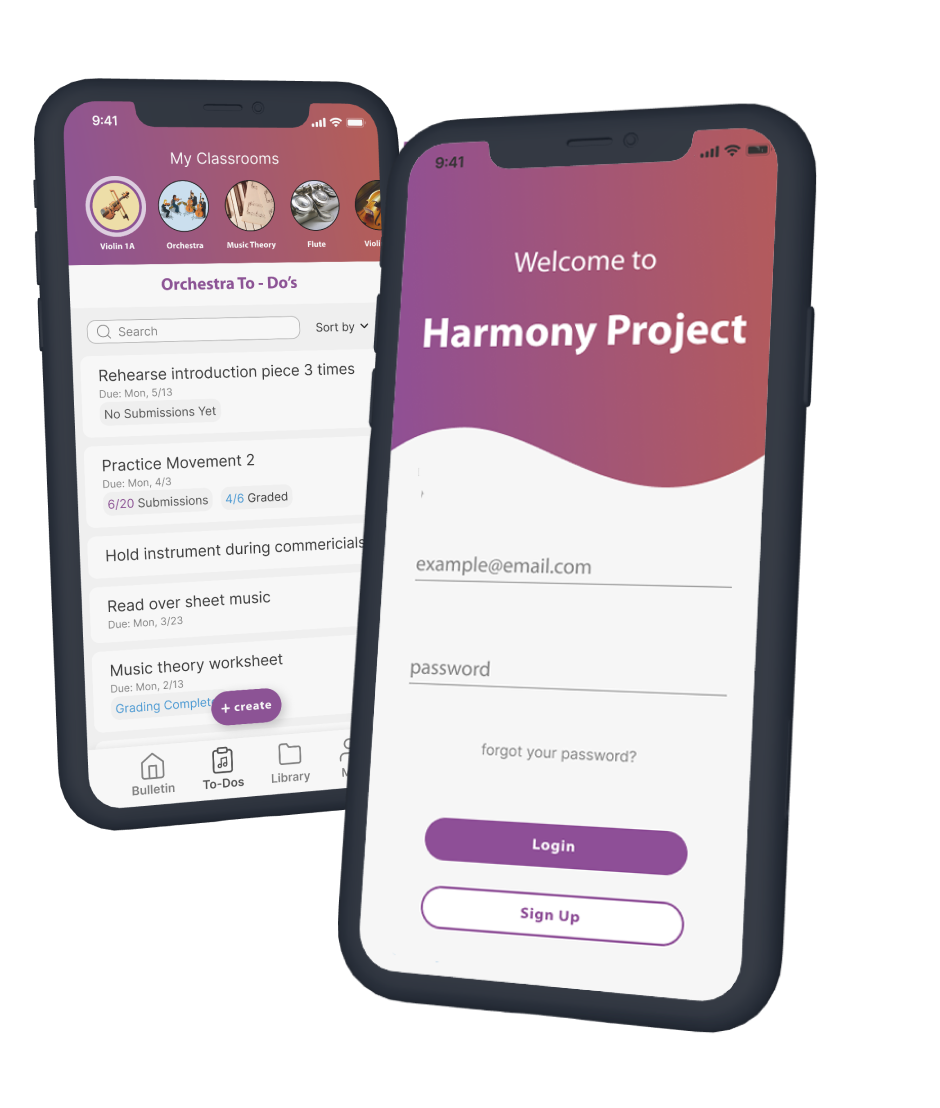
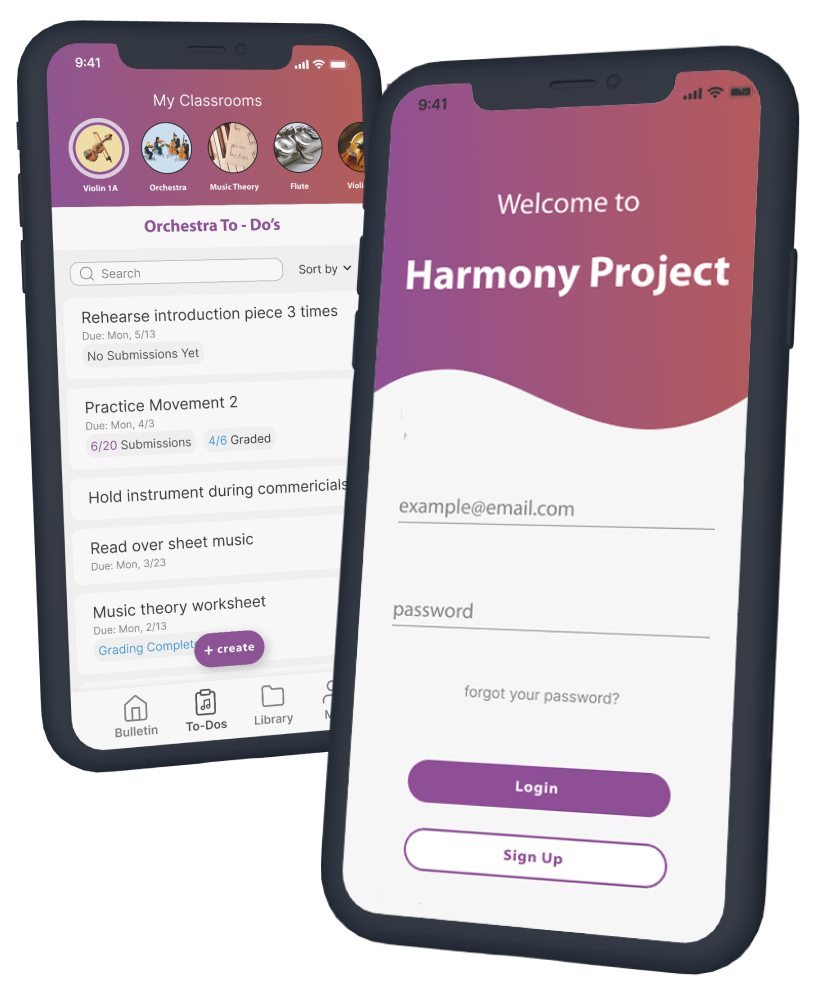
Add PTV Case Study and update project thumbnails

diff --git a/src/app/components/ProjectInfo.js b/src/app/components/ProjectInfo.js
@@ -17,9 +17,9 @@ import SectionUnorderedList from './SectionUnorderedList';
 import SectionTable from './SectionTable';
 import PageHeader from './PageHeader';
 
+import ptvMobileApp from '../assets/images/projects/PTV_Thumbnail.png';
 import f2pWebapp from '../assets/images/projects/farm2people/F2P_Thumbnail.png';
-import hpLogo from '../assets/images/projects/HarmonyProject/harmony-project.png';
-import hpMobileApp from '../assets/images/projects/HarmonyProject/HP_Thumbnail.png';
+import hpMobileApp from '../assets/images/projects/HP_Thumbnail.png';
 
 import ptv from '../markdown/ptv.md';
 import harmonyProject from '../markdown/harmony_project.md';
@@ -28,56 +28,17 @@ import farm2people from '../markdown/farm2people.md';
 /* eslint-disable */
 const projects = {
   'ptv': {
-    title: 'Program for Torture Victims',
+    title: '',
     render: () => (
       <>
-        <div className="mb-3">
-          Program for Torture Victims helps support refugees escaping violence and human rights abuse.
-        </div>
-        <div className="ptv-text">
-          View Github Repositories
-        </div>
-        <Button className="blue" size="md" href="https://github.com/lablueprint/ptv-mobile-app">
-          Mobile App
-        </Button>
-        <Button className="blue" size="md" href="https://github.com/lablueprint/ptv-web-console">
-          Web Console
-        </Button>
+        <img src={ptvMobileApp} width="75%"></img>
       </>
-    ),
-    body: (
-      <>
-        <SectionHeading>
-          Background
-        </SectionHeading>
-        <SectionParagraph>
-          Roughly 70,000–90,000 individuals seek asylum <a
-          href="https://www.dhs.gov/sites/default/files/publications/Refugees_Asylees_2017.pdf">every year.</a> These
-          asylum seekers range from individuals wanting to find a better life, avoiding political prosecution, or
-          escaping torture and persecution for their beliefs. Many of these asylum seekers arrive to the United States
-          with nothing else besides what they can carry in their suitcases and have no connections to resources when
-          they first arrive.
-        </SectionParagraph>
-        <SectionHeading>
-          Solution
-        </SectionHeading>
-        <SectionParagraph>
-          <a href="https://ptvla.org">Program for Torture Victims (PTV)</a> aims to rebuild the lives of survivors of
-          torture and persecution from over 70 countries. PTV does this by connecting survivors to resources and
-          rehabilitation to help restore their health and dignity. To better serve and increase awareness of available
-          resources for PTV’s service recipients, our project will develop a mobile application that will direct
-          survivors to resources specific to their needs and provide an online community.
-        </SectionParagraph>
-      </>
-    ),
+    )
   },
   'harmony-project': {
     title: '',
     render: () => (
-      <div style={{display: 'flex', flexDirection: 'row', justifyContent: 'space-around', alignItems: 'center'}}>
-        <img src={hpLogo} style={{width: '30%', height: '30%'}}></img>
-        <img src={hpMobileApp} style={{width: '50%'}}></img>
-      </div>
+      <img src={hpMobileApp} width="75%"></img>
     )
   },
   'farm2people': {

diff --git a/src/app/assets/stylesheets/main.scss b/src/app/assets/stylesheets/main.scss
@@ -72,6 +72,27 @@ h4 {
       }
     }
 
+    &.white {
+      border: 1px solid $bp-blue;
+      background-color: $white;
+      color: $bp-blue;
+
+      &:hover {
+        background-color: $white;
+        color: $bp-blue;
+      }
+
+      &:focus {
+        background-color: $white;
+        color: $bp-blue;
+      }
+
+      &:active {
+        background-color: $white !important;
+        color: $bp-blue !important;
+      }
+    }
+
     &.outline-white {
       border: 1px solid $white; 
       background-color: $transparent;
@@ -93,24 +114,45 @@ h4 {
       }
     }
 
-    &.white {
-      border: 1px solid $bp-blue;
-      background-color: $white;
-      color: $bp-blue;
+    &.pink {
+      border: 1px solid $pink;
+      background-color: $pink;
+      color: $white;
 
       &:hover {
-        background-color: $white;
-        color: $bp-blue;
+        background-color: $pink;
+        color: $white;
       }
 
       &:focus {
-        background-color: $white;
-        color: $bp-blue;
+        background-color: $pink;
+        color: $white;
       }
 
       &:active {
-        background-color: $white !important;
-        color: $bp-blue !important;
+        background-color: $pink !important;
+        color: $white !important;
+      }
+    }
+
+    &.pink-outline {
+      border: 1px solid $pink;
+      background-color: $transparent;
+      color: $pink;
+
+      &:hover {
+        background-color: $transparent;
+        color: $pink;
+      }
+
+      &:focus {
+        background-color: $transparent;
+        color: $pink;
+      }
+
+      &:active {
+        background-color: $transparent !important;
+        color: $pink !important;
       }
     }
 

diff --git a/src/app/assets/stylesheets/components/PageHeader.scss b/src/app/assets/stylesheets/components/PageHeader.scss
@@ -34,7 +34,7 @@
     .content-container {
       display: flex; 
       flex-direction: row; 
-      justify-content: 'space-between'; 
+      justify-content: center; 
 
       @media screen and (max-width: 768px) {
         flex-direction: column;
@@ -145,6 +145,11 @@
 
 
       &.ptv {
+
+        .body {
+            display: flex; 
+            justify-content: center; 
+        }
         
         .ptv-text {
           margin-top: 50px;
@@ -159,13 +164,12 @@
         }
       }
 
-      /* &.harmony-project {
-        background-image: linear-gradient(#F5F5F5 57%, white 50%);
+      &.harmony-project {
+        .body {
+          display: flex; 
+          justify-content: center; 
+        }
       }
-
-      &.farm2people {
-        background-image: linear-gradient(#F5F5F5 57%, white 50%);
-      } */
     }
 
     .content {

diff --git a/src/app/pages/ProjectPage.js b/src/app/pages/ProjectPage.js
@@ -5,7 +5,7 @@ import PageHeader from '../components/PageHeader';
 import ProjectCard from '../components/ProjectCard';
 import SectionContainer from '../components/SectionContainer';
 
-import ptv from '../assets/images/projects/PTV_Thumbnail.jpeg';
+import ptv from '../assets/images/projects/PTV_Thumbnail.png';
 import harmonyProject from '../assets/images/projects/HP_Thumbnail.png';
 import farm2people from '../assets/images/projects/F2P_Thumbnail.png';
 

diff --git a/src/app/components/OurProjects.js b/src/app/components/OurProjects.js
@@ -7,7 +7,7 @@ import SectionHeading from './SectionHeading';
 import SectionSubtitle from './SectionSubtitle';
 import ProjectCard from './ProjectCard';
 
-import ptv from '../assets/images/projects/PTV_Thumbnail.jpeg';
+import ptv from '../assets/images/projects/PTV_Thumbnail.png';
 import harmonyProject from '../assets/images/projects/HP_Thumbnail.png';
 import farm2people from '../assets/images/projects/F2P_Thumbnail.png';
 

diff --git a/src/app/assets/stylesheets/components/ProjectInfo.scss b/src/app/assets/stylesheets/components/ProjectInfo.scss
@@ -31,6 +31,14 @@
     .btn {
         @extend .raised-button;
         margin-right: 20px;
+
+        &.blue {
+            margin-bottom: 20px;
+        }
+
+        &.white {
+            margin-bottom: 20px;
+        }
     }
     
     .flex-row {

diff --git a/src/app/markdown/ptv.md b/src/app/markdown/ptv.md
@@ -1,7 +1,138 @@
+<div class="title">
+Program for Torture Victims
+</div>
+
+[Program for Torture Victims (PTV)](https://ptvla.org/) aims to rebuild the lives of survivors of torture and persecution from over 70 countries. PTV does this by connecting survivors to resources and rehabilitation to help restore their health and dignity. 
+
+Blueprint partnered with PTV to build a mobile application that caters towards asylum-seekers and refugees, assisting them in integrating with their host society. We collaborated on Figma to create prototypes and wireframes of a mobile application to assist asylum-seekers, as well as a web console for PTV staff and administrators to use.
+
+Github Repositories: 
+
+<Button className="blue" size="md" href="https://github.com/lablueprint/ptv-mobile-app">
+    Mobile App
+</Button>
+
+<Button className="white" size="md" href="https://github.com/lablueprint/ptv-web-console">
+    Web Console
+</Button>
+
+Figma Prototypes: 
+
+<Button className="pink" size="md" href="https://www.figma.com/proto/oHCzpYSIl8qFp8lTkALOuK/PTV?node-id=577%3A4418&scaling=scale-down&viewport=-69%2C-297%2C0.07977807521820068">
+    Mobile App
+</Button>
+
+
+<Button className="pink-outline" size="md" href="https://www.figma.com/proto/oHCzpYSIl8qFp8lTkALOuK/PTV?node-id=3637%3A0&scaling=scale-down-width&viewport=707%2C495%2C0.039171002805233">
+    Web Console
+</Button>
+
+---
+<div id="duration-table">
+
+| Duration | Tools & Tech |
+| - | - |
+| January 2020 - February 2021 | React Native, React, Firebase, Material Design; Figma
+ |
+
+</div>
+
+| Team Members | |
+| - | - |
+| **_Project Leads_** | Vincent Cheung (January 2020 - June 2020), Bill Liu (June 2020 - February 2021) |
+| **_Designers_** | Vivian Nguyen, Yinyin Wen |
+| **_Developers_** | Derek Chu, Bill Liu, Bianca Villamor, Ryan Tran, Helen Wang, Michael Shi, Solaine Zhao, Anan Wang, Ray Huang, Andrew Zeff |
+
 # Background 
+California is the asylum capital of the Americas. Every year, more than 75,000 human rights activists, war survivors, ethnic and religious minorities, gang/cartel victims, LGBT survivors, and other displaced immigrants flee violence in their home countries to resettle in California. These refugees uproot their lives and disrupt community and family ties to seek freedom and safety. Many arrive penniless having spent their life savings on a perilous journey to get to the US. Many are broken mentally and physically but aren’t eligible for health coverage or other benefits. Many refugees struggle with a new language, the challenges of a new country, and the bureaucracy of its systems.
 
-Roughly 70,000–90,000 individuals seek asylum [every year](https://www.dhs.gov/sites/default/files/publications/Refugees_Asylees_2017.pdf). These asylum seekers range from individuals wanting to find a better life, avoiding political prosecution, or escaping torture and persecution for their beliefs. Many of these asylum seekers arrive to the United States with nothing else besides what they can carry in their suitcases and have no connections to resources when they first arrive.
+Although there are several applications such as the [WIN app from Our Children LA](https://www.ourchildrenla.org/win-app/) and [Immigrant Guide](https://immigrantguide.org/), we found that they were difficult to navigate design-wise. Therefore, when designing PTV mobile application, we took into account accessibility and contrast levels, especially as our audience would come from a wide spectrum of demographics.
 
-# Solution 
+# Goal 
+With technology becoming the bridge between humanity and social services, we collaborated with the nonprofit Program for Torture Victims to design and develop a mobile application that would help refugees and asylum-seekers find resources that would help them navigate a country they are still getting used to. We also have a goal to create a backend web console so that resources and features can be updated consistently throughout the years, or long-term.
 
-[Program for Torture Victims (PTV)](https://ptvla.org/) aims to rebuild the lives of survivors of torture and persecution from over 70 countries. PTV does this by connecting survivors to resources and rehabilitation to help restore their health and dignity. To better serve and increase awareness of available resources for PTV’s service recipients, our project will develop a mobile application that will direct survivors to resources specific to their needs and provide an online community.
+*“How can we create an accessible, virtual haven for asylum-seekers and refugees to easily find resources in integrating themselves in their host community, as well as communicate with others in similar situations?”*
+
+# Understand
+
+## Communication with PTV
+
+Throughout the duration of the project, our project lead constantly communicated with PTV to see which features they wanted to be included in the mobile application and web console, informing the team of changes and additions.
+
+## Insights
+- PTV wanted to see:
+    - An Android/iOS mobile app with accompanying web console.
+- The mobile app is the main product. The app centralizes three components: 
+    1. A resource listings
+    2. A communication channel via a forum
+    3. An event board
+
+The app will be used primarily by the clients of PTV in order to find resources, create posts on the forum, comment on posts on the forum, and see upcoming events.
+
+The web console will be used exclusively by PTV staff and volunteers and will be available at a web URL. The web console contains all the features of the mobile app, but because it is used by PTV staff and volunteers, it gives greater control over the app. Resources can be created, updated and deleted; forum posts can be approved; the event board can be updated.
+
+# Literature Reviews
+We conducted a literature review in lieu of first-hand user interviews with PTV's user base in order to understand the context in which refugees arrive into their host communities. References include scholarly articles on best practices, ethnographic studies, and interviews with refugees.
+
+These findings have been synthesized to develop a persona representing PTV's user base (refugees).
+
+Three key issues in designing technology for refugees:
+1. Access to services (health, education, employment)
+    - Barriers to healthcare include:
+        - Cost & transportation
+    - Barriers to education include:
+        - Gender
+        - Child labor
+        - Language
+    - Barriers to employment include:
+        - Government restrictions (ie. to blue collar jobs)
+        - Language
+        - Verifying qualifications
+        - Limited legal aid
+2. Integration into host communities
+3. Journeying to safety
+    - As refugees move across various countries, they rely on technology to communicate with their families
+    - Barriers include insufficient telecom infrastructure
+
+# Ideation
+This application’s features compare to the WIN app and Immigrant Guide, however, it would also include a forum where users can talk to each other, and an events calendar where refugees and asylum-seekers can learn more about Program for Torture Victims and their events and programs directly.
+
+## Features
+
+- **Onboarding** — How do you use the application? What are you looking for?
+- **Resources** — View resources in multi-level categories
+- **Forum** — Answer each other’s questions, have discussions, share knowledge and information
+- **Events** — View Program for Torture Victims’ events and associated events
+- **Profile** — Higher level of anonymity as it is not a social media application, can choose from avatars
+
+# Wireframes
+
+Our designers created low-fidelity wireframes to lay out our features prior to creating high-fidelity prototypes.
+
+![Mobile application forum flow](/PTV_Wireframes1.png)
+
+Mobile application forum flow + lo-fi
+
+![Mobile application forum flow](/PTV_Wireframes2.png)
+
+Mobile application resources flow + lo-fi
+
+![Mobile application forum flow](/PTV_Wireframes3.png)
+
+Web console dashboard + forum lo-fi
+
+# Usability Testing
+
+We administered usability testing for the web console through Google Forms and recorded using OBS (open broadcasting software). Qualitative analysis using an affinity wall was carried out on Notion using Kanban boards.
+
+![Usability Testing](/PTV_usability_testing.gif)
+
+# Solution
+
+Through our process, we were able to come up with a solution, the Program for Torture Victims mobile application and web console. Below is a design-focused layout of our application.
+
+![Solution Overview](/PTV_solution.jpg)
+
+![Webconsole](/PTV_solution2.jpg)
+
+![Demo](/PTV_solution3.gif)
